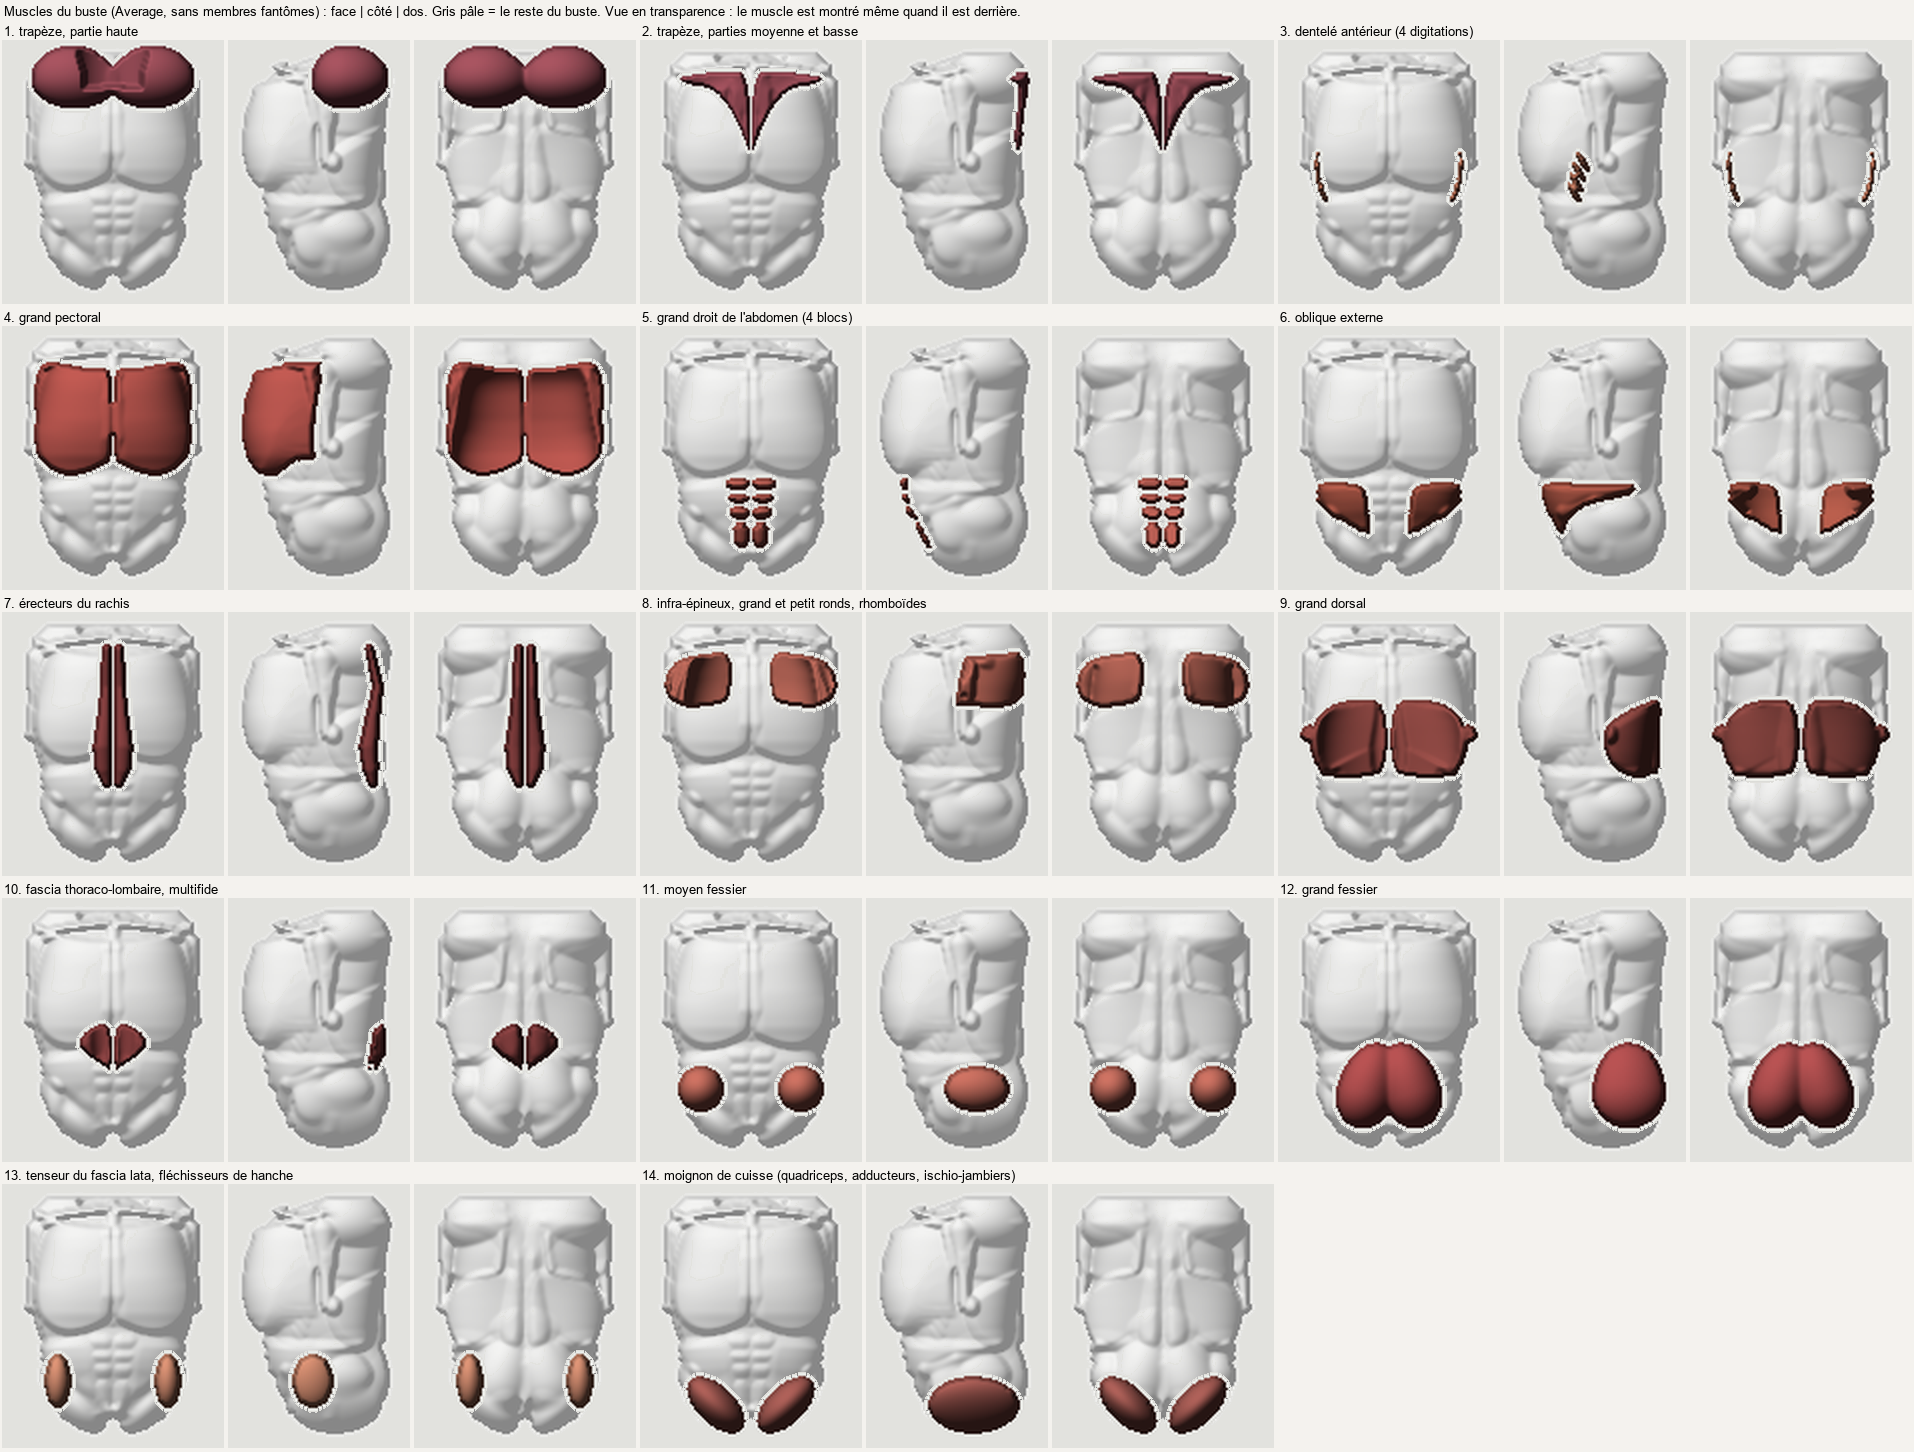
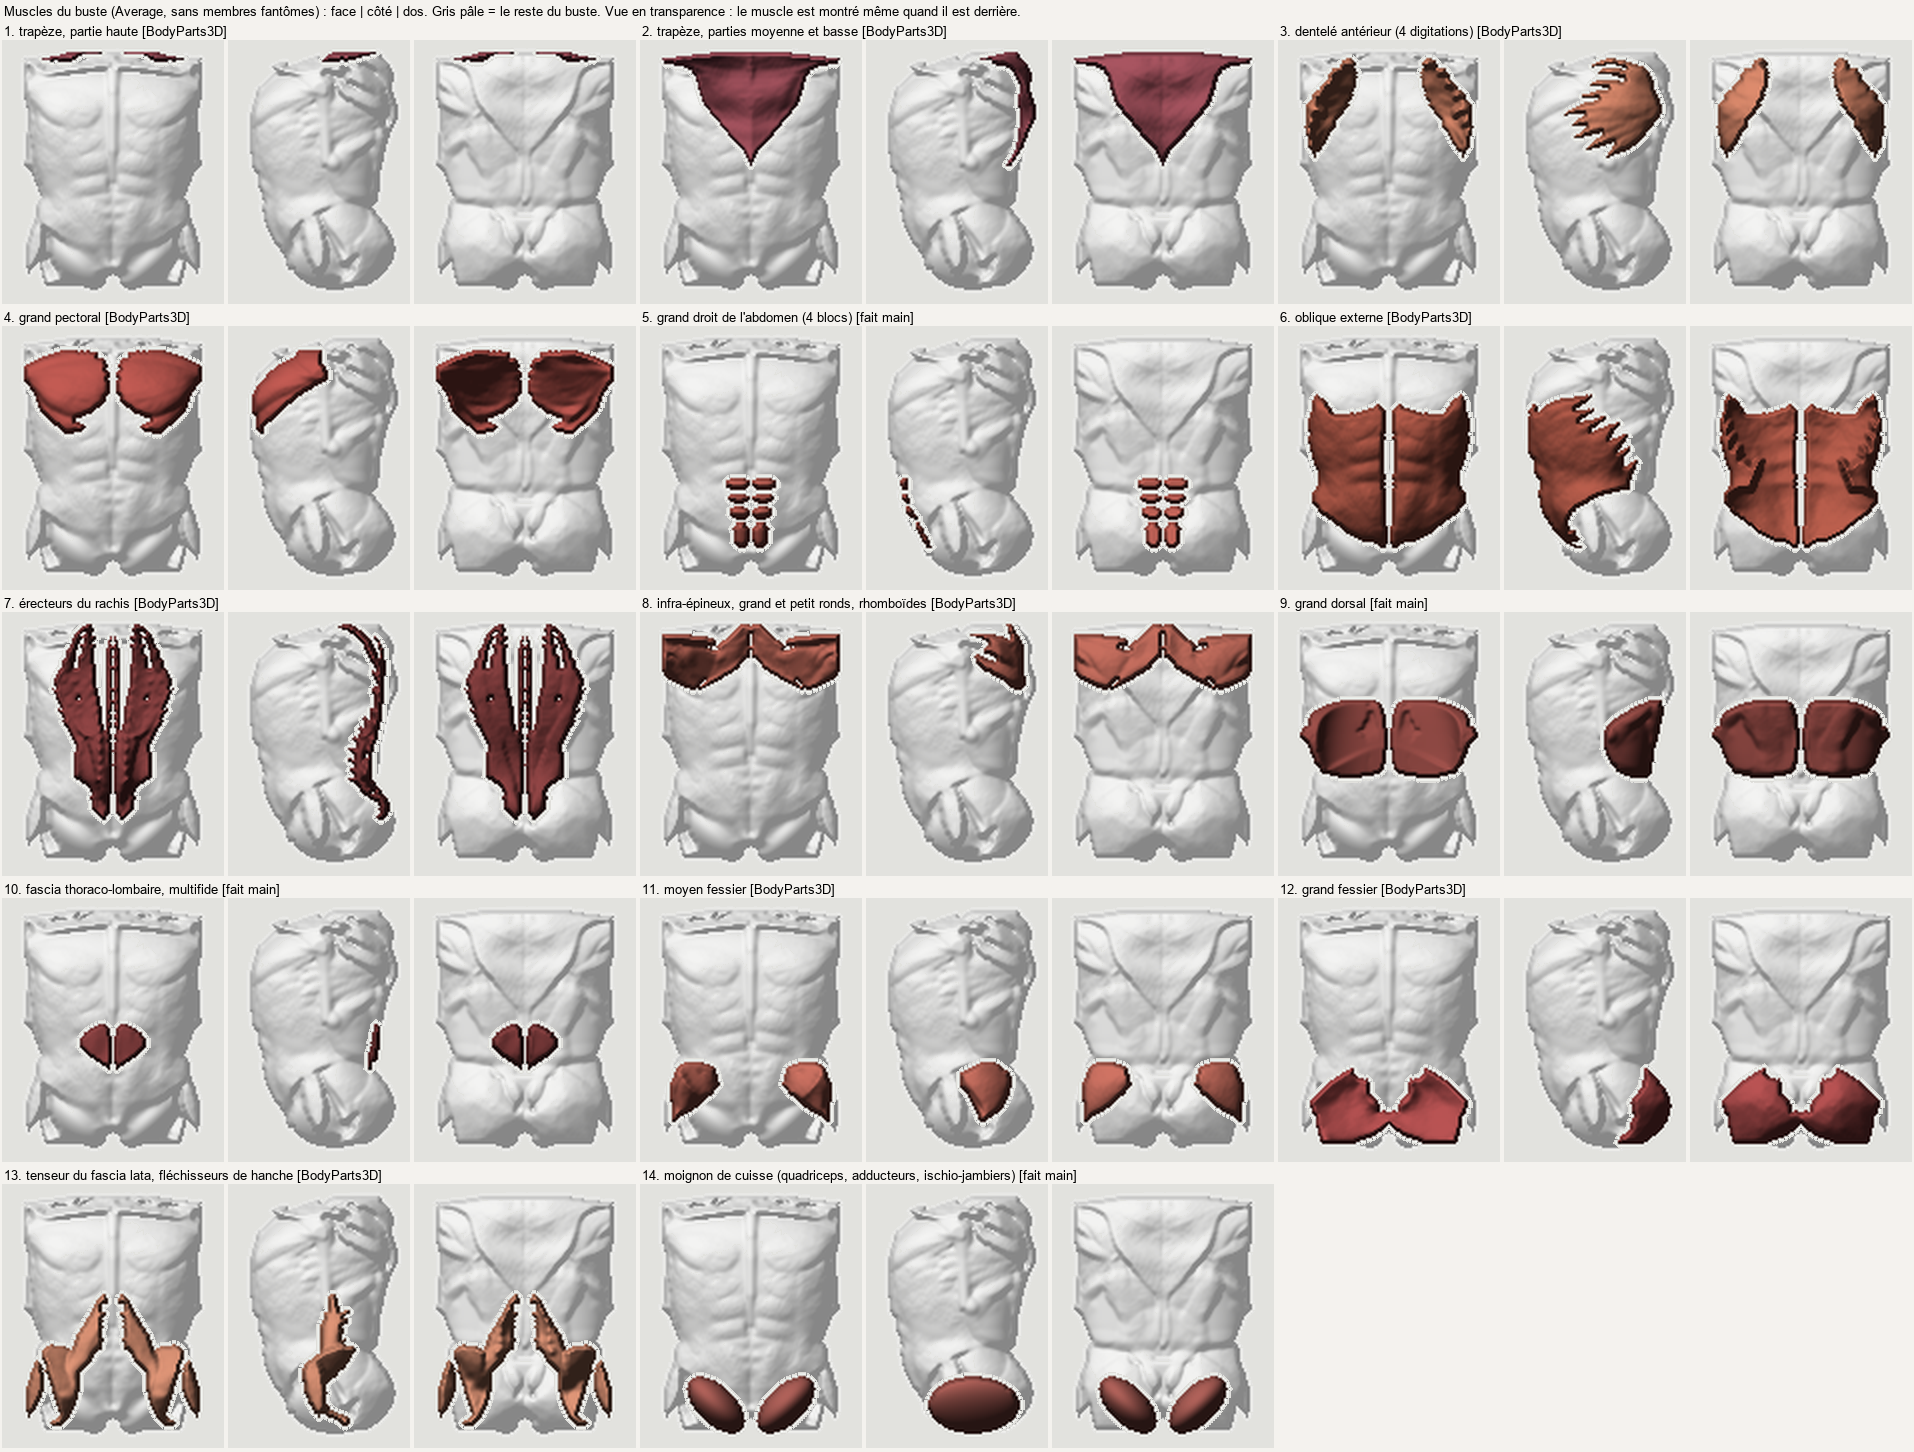
Body 3D: trunk muscles from BodyParts3D where the library has them (10 of 14), cut at the neck section, the shoulder and the crotch; prototype M v7
bp3d_torso.py lays the BodyParts3D meshes on the Male frame (bp3d_import.frame) and stack3d.build_male uses them (HAND_MUSCLES=1 restores the hand shapes). Still hand-made: rectus abdominis, latissimus dorsi, thoracolumbar fascia and multifidus (absent from BodyParts3D 4.0) and the thigh stump. The meshes stay out of git (out/bp3d, CC BY-SA). M v7: muscle 20.7 %, fat 22.8 %, bone 6.4 %, viscera 44.8 % of the torso mass.

diff --git a/Art/work/transfer-proto/fable-crack/stack3d.py b/Art/work/transfer-proto/fable-crack/stack3d.py
@@ -523,8 +523,33 @@ def build_male(G, T, prm=MALE, ty=None):
             cyl = (np.sqrt((X / 36.0) ** 2 + ((Z - 246.0) / 32.0) ** 2) - 1.0) * 32.0
             return np.maximum(cyl, R - 222.0).astype(np.float32)
         return fn, np.array([-36.0, 140.0, 214.0]), np.array([36.0, 222.0, 278.0])
-    S.add("trapezius (upper)", "muscle", carve(ell((38, 214, 232), (44, 30, 34), rad2=(44, 34, 44)), neck_hole()), k=6.0,
-          colour=COL["trap"], km=6.0)
+    # BodyParts3D first (2026-11-17, Virginie: 'repars de ceux de la lib'): every muscle the library has is its mesh, laid
+    # on the Male frame (bp3d_torso.py), cut at the neck section; the hand-made shape stays only where the library has
+    # none, or with HAND_MUSCLES=1.
+    use_lib = os.environ.get("HAND_MUSCLES", "0") != "1"
+
+    def lib(name, colour, k=1.5, km=1.0, holes=()):
+        if not use_lib:
+            return False
+        import bp3d_torso
+        p = bp3d_torso.prim(name)
+        if p is None:
+            return False
+        top = (lambda X, R, Z: np.broadcast_to(R - prm["neck_cut"], np.broadcast_shapes(X.shape, R.shape, Z.shape)).astype(np.float32),
+               np.array([-200.0, 0.0, 0.0]), np.array([200.0, prm["neck_cut"], 500.0]))
+        # the library muscles run on into the limbs (pectoral and teres to the humerus, hip flexors and glutes to the
+        # femur): cut at the shoulder (past the acromion, x 90) and at the crotch row; the ghost limbs carry the rest
+        shp = lambda X, R, Z: np.broadcast_shapes(X.shape, R.shape, Z.shape)
+        arm = (lambda X, R, Z: np.broadcast_to(90.0 - X, shp(X, R, Z)).astype(np.float32),
+               np.array([90.0, 0.0, 0.0]), np.array([400.0, 600.0, 500.0]))
+        leg = (lambda X, R, Z: np.broadcast_to(prm["lm"][4] - R, shp(X, R, Z)).astype(np.float32),
+               np.array([-200.0, prm["lm"][4], 0.0]), np.array([200.0, 900.0, 500.0]))
+        S.add(name, "muscle", carve(p, top, arm, leg, *holes), k=k, colour=colour, km=km)
+        return True
+
+    if not lib("trapezius (upper)", COL["trap"], holes=(neck_hole(),)):
+        S.add("trapezius (upper)", "muscle", carve(ell((38, 214, 232), (44, 30, 34), rad2=(44, 34, 44)), neck_hole()), k=6.0,
+              colour=COL["trap"], km=6.0)
 
     # ---- trunk, front
     def serr(i, zc_, rc_):
@@ -533,14 +558,15 @@ def build_male(G, T, prm=MALE, ty=None):
              ((-1, 0), (-0.6, 0.85), (0.3, 1), (0.9, 0.5), (1, 0), (0.9, -0.5), (0.3, -1), (-0.6, -0.85))]
         S.lens(f"serratus {i}", "muscle", "S", V, 1.4, 4.5, colour=COL["serr"], rnd=1, prof=1.5)
 
-    for i, (z_, r_) in enumerate(((270, 297), (274, 307), (277, 317), (279, 327))):
-        serr(i, z_, r_)
+    if not lib("serratus", COL["serr"]):
+        for i, (z_, r_) in enumerate(((270, 297), (274, 307), (277, 317), (279, 327))):
+            serr(i, z_, r_)
 
     # the two pectorals meet on the sternum (the polygon crosses the midline, so the pair is one sheet there); they thin
     # toward it, which leaves the sternal furrow as a shallow valley and not a bare strip of bone
     pec = [(-1, 217), (-1, 309), (11, 316), (26, 322.5), (42, 325.5), (56, 323), (68, 315), (76, 305), (80, 288), (80, 250),
            (78, 226), (72, 213), (62, 209.5), (46, 212.5), (24, 216.5), (8, 217)]
-    S.lens("pectoralis major", "muscle", "F", pec, 11.5, 5.5, colour=COL["pec"],
+    lib("pectoralis major", COL["pec"]) or S.lens("pectoralis major", "muscle", "F", pec, 11.5, 5.5, colour=COL["pec"],
            mod=lambda u, v: (0.6 + 0.4 * sstep((v - (217.0 - 0.1 * np.abs(u))) / 70.0)) * (0.68 + 0.32 * sstep(np.abs(u) / 14.0)))
 
     # rectus abdominis: four blocks a side, tendinous intersections between them, linea alba at the midline.
@@ -560,16 +586,16 @@ def build_male(G, T, prm=MALE, ty=None):
     # its medial edge runs under the rectus sheath
     obl = [(20, 327), (60, 327), (100, 330), (140, 332), (172, 329), (172, 344), (135, 350), (110, 354), (88, 362), (62, 374),
            (42, 388), (20, 392)]
-    S.lens("external oblique", "muscle", "W", obl, 8.0, 12.0, colour=COL["obl"], prof=1.3, on="core",
+    lib("external oblique", COL["obl"]) or S.lens("external oblique", "muscle", "W", obl, 8.0, 12.0, colour=COL["obl"], prof=1.3, on="core",
            mod=lambda u, v: (0.4 + 0.6 * sstep((u - 30.0) / 55.0)) * (0.45 + 0.55 * sstep((v - 322.0) / 18.0)))
 
     # ---- trunk, back
     er = [(6.5, 212, 5.0, 4.5), (7, 250, 6.0, 4.5), (8.5, 285, 8.0, 6.5), (10.5, 310, 10.0, 8.5), (9.5, 332, 8.5, 6.7), (6.5, 346, 5.0, 5.5)]
-    S.add("erector spinae", "muscle", tube([(x, r, float(fsp(r)) + dz) for x, r, rad, dz in er], [p[2] for p in er]), k=1.5,
+    lib("erector spinae", COL["erec"]) or S.add("erector spinae", "muscle", tube([(x, r, float(fsp(r)) + dz) for x, r, rad, dz in er], [p[2] for p in er]), k=1.5,
           colour=COL["erec"], km=1.0)
 
     scap = [(19, 214), (19, 254), (24, 266), (44, 270), (66, 272), (84, 262), (88, 244), (76, 222), (44, 216)]   # on the scapula (ribs 2 to 7)
-    S.lens("infraspinatus, teres, rhomboid", "muscle", "B", scap, 4.8, 7.0, colour=COL["scap"], on="core",
+    lib("infraspinatus, teres, rhomboid", COL["scap"]) or S.lens("infraspinatus, teres, rhomboid", "muscle", "B", scap, 4.8, 7.0, colour=COL["scap"], on="core",
            mod=lambda u, v: 1.0 - 0.3 * sstep((v - 236.0) / 26.0))
 
     # latissimus dorsi: one fan. Origin on the spine from T7 down to the sacrum and along the iliac crest, free border
@@ -580,7 +606,7 @@ def build_male(G, T, prm=MALE, ty=None):
            mod=lambda u, v: 0.55 + 0.45 * sstep((228.0 - u) / 70.0))
 
     trap = [(-1, 204), (30, 204), (62, 208), (78, 212), (64, 222), (40, 224), (22, 244), (9, 272), (-1, 302)]
-    S.lens("trapezius (middle, lower)", "muscle", "B", trap, 2.6, 10.0, colour=COL["trap"], prof=1.2)
+    lib("trapezius (middle, lower)", COL["trap"]) or S.lens("trapezius (middle, lower)", "muscle", "B", trap, 2.6, 10.0, colour=COL["trap"], prof=1.2)
     # thoracolumbar fascia with the multifidus under it: from the lumbar erectors onto the sacrum, between the two PSIS
     S.lens("thoracolumbar fascia, multifidus", "muscle", "B", [(-1, 296), (24, 302), (38, 318), (30, 332), (15, 341), (-1, 354)], 2.6, 11.0,
            colour=COL["erec"], prof=1.2)
@@ -591,9 +617,9 @@ def build_male(G, T, prm=MALE, ty=None):
 
     # ---- pelvis and thigh stump
     # gluteus medius: from the iliac crest (row 347) down to the greater trochanter (391)
-    S.add("gluteus medius", "muscle", ell((50, 366, 238), (23, 23, 33), rot=(12, 0, 0)), k=3.0, colour=COL["glmed"])
-    S.add("gluteus maximus", "muscle", ell((23, 370, 224.5), (30, 36, 36.5), rad2=(30, 52, 37.5), rot=(18, 0, 0)), k=2.5, colour=COL["glmax"], km=6.0)
-    S.add("tensor fasciae latae, hip flexors", "muscle", ell((55, 372, 264), (13.5, 27, 21)), k=6.0, colour=COL["tfl"])
+    lib("gluteus medius", COL["glmed"]) or S.add("gluteus medius", "muscle", ell((50, 366, 238), (23, 23, 33), rot=(12, 0, 0)), k=3.0, colour=COL["glmed"])
+    lib("gluteus maximus", COL["glmax"], km=4.0) or S.add("gluteus maximus", "muscle", ell((23, 370, 224.5), (30, 36, 36.5), rad2=(30, 52, 37.5), rot=(18, 0, 0)), k=2.5, colour=COL["glmax"], km=6.0)
+    lib("tensor fasciae latae, hip flexors", COL["tfl"]) or S.add("tensor fasciae latae, hip flexors", "muscle", ell((55, 372, 264), (13.5, 27, 21)), k=6.0, colour=COL["tfl"])
     S.add("thigh stump (quadriceps, adductors, hamstrings)", "muscle", ell((35, 396, 242.5), (19, 36, 44), rad2=(19, 36, 47), rot=(-46, 0, 0)), k=6.0,
           colour=COL["thigh"], km=2.0)
     # the sprite cuts the neck flat: the neck root and the trapezius end on that section, they do not close in a tip

diff --git a/Art/work/transfer-proto/fable-crack/bp3d_torso.py b/Art/work/transfer-proto/fable-crack/bp3d_torso.py
@@ -1,0 +1,116 @@
+"""The trunk muscles of the stack taken from BodyParts3D (2026-11-17, Virginie: 'repars de ceux de la lib pour tous ceux
+validés ici').
+
+Each muscle of the stack that BodyParts3D 4.0 has is replaced by the BodyParts3D mesh (right side), laid on the Male frame
+by the same fit as the reference bones (bp3d_import.frame and thorax_width), then made solid on the grid. The ones the
+library does not have stay hand-made in stack3d.build_male: rectus abdominis, latissimus dorsi, thoracolumbar fascia and
+multifidus (BodyParts3D 4.0 has no rectus abdominis, latissimus dorsi, multifidus, internal oblique, transversus abdominis
+or quadratus lumborum).
+
+    uv run --with numpy --with scipy python bp3d_torso.py      writes out/bp3d/torso_muscles.npz (meshes, Male frame)
+
+stack3d.build_male reads that file through prim(); without it the hand-made shapes stay.
+"""
+import collections
+import pathlib
+
+import numpy as np
+from scipy import ndimage as ndi
+
+HERE = pathlib.Path(__file__).parent / "out" / "bp3d"
+PATH = HERE / "torso_muscles.npz"
+
+# stack part name -> BodyParts3D objects (right side)
+GROUPS = {
+    "trapezius (upper)": ["descending part of right trapezius"],
+    "trapezius (middle, lower)": ["transverse part of right trapezius", "ascending part of right trapezius"],
+    "serratus": ["right serratus anterior"],
+    "pectoralis major": ["clavicular part of right pectoralis major", "sternocostal part of right pectoralis major",
+                         "abdominal part of right pectoralis major"],
+    "external oblique": ["right external oblique"],
+    "erector spinae": ["right iliocostalis lumborum", "right iliocostalis thoracis", "right longissimus thoracis",
+                       "right spinalis thoracis"],
+    "infraspinatus, teres, rhomboid": ["right infraspinatus muscle", "right supraspinatus", "right teres major",
+                                       "right teres minor", "right rhomboid major", "right rhomboid minor"],
+    "gluteus medius": ["right gluteus medius", "right gluteus minimus"],
+    "gluteus maximus": ["right gluteus maximus"],
+    "tensor fasciae latae, hip flexors": ["right tensor fasciae latae", "right iliacus", "right psoas major"],
+}
+
+
+def build():
+    import bp3d_import as bi
+    O, T = bi.frame()
+    by = collections.defaultdict(list)
+    for ln in (HERE / "isa_element_parts.txt").read_text(encoding="utf-8").splitlines()[1:]:
+        c = ln.split("\t")
+        if len(c) >= 3:
+            by[c[1]].append(c[2])
+    want = {n: by[n][0] for g in GROUPS.values() for n in g if by.get(n)}
+    missing = [n for g in GROUPS.values() for n in g if n not in want]
+    if missing:
+        print("not in BodyParts3D:", missing)
+    M = bi.load_named({fj: n for n, fj in want.items()})
+    mesh = {n: (v, f) for fj, (n, v, f) in M.items()}
+    out = {}
+    for key, names in GROUPS.items():
+        V, F, off = [], [], 0
+        for n in names:
+            if n not in mesh:
+                continue
+            v, f = mesh[n]
+            v = bi.thorax_width(T(O(v)))
+            V.append(v); F.append(f + off); off += len(v)
+        if V:
+            k = key.replace(" ", "_").replace(",", "").replace("(", "").replace(")", "")
+            out[f"v_{k}"] = np.concatenate(V); out[f"f_{k}"] = np.concatenate(F)
+            v = out[f"v_{k}"]
+            print(f"  {key:36s} {len(names)} parts  x {v[:, 0].min():.0f}..{v[:, 0].max():.0f}  rows {v[:, 1].min():.0f}..{v[:, 1].max():.0f}  z {v[:, 2].min():.0f}..{v[:, 2].max():.0f}")
+    np.savez_compressed(PATH, **out)
+    print(PATH)
+
+
+_CACHE = {}
+
+
+def prim(key, h=1.0):
+    """(fn, lo, hi) of the solid of a group, or None when the file or the group is absent. The solid: the triangles
+    sampled every h/3, those voxels closed (fill holes), then a signed distance on a 1 px grid around it."""
+    if not PATH.exists():
+        return None
+    k = key.replace(" ", "_").replace(",", "").replace("(", "").replace(")", "")
+    if (k, h) not in _CACHE:
+        D = np.load(PATH)
+        if f"v_{k}" not in D:
+            return None
+        v, f = D[f"v_{k}"].astype(np.float64), D[f"f_{k}"]
+        g = 1.0
+        lo = v.min(0) - 6.0; hi = v.max(0) + 6.0
+        shp = tuple(int(np.ceil((hi[i] - lo[i]) / g)) + 1 for i in range(3))
+        occ = np.zeros(shp, bool)
+        a, b, c = v[f[:, 0]], v[f[:, 1]], v[f[:, 2]]
+        n = int(np.ceil(max(np.linalg.norm(b - a, axis=1).max(), np.linalg.norm(c - a, axis=1).max()) / (g / 3.0))) + 1
+        for i in range(n + 1):
+            for j in range(n + 1 - i):
+                p = a + (b - a) * (i / n) + (c - a) * (j / n)
+                q = np.round((p - lo) / g).astype(int)
+                occ[q[:, 0], q[:, 1], q[:, 2]] = True
+        occ = ndi.binary_closing(occ, iterations=1)
+        occ = ndi.binary_fill_holes(occ)
+        sd = (ndi.distance_transform_edt(~occ) - ndi.distance_transform_edt(occ)) * g
+        _CACHE[(k, h)] = (sd.astype(np.float32), lo, g)
+    sd, lo, g = _CACHE[(k, h)]
+
+    def fn(X, R, Z):
+        co = [(np.broadcast_to(X, np.broadcast_shapes(X.shape, R.shape, Z.shape)) - lo[0]) / g,
+              (np.broadcast_to(R, np.broadcast_shapes(X.shape, R.shape, Z.shape)) - lo[1]) / g,
+              (np.broadcast_to(Z, np.broadcast_shapes(X.shape, R.shape, Z.shape)) - lo[2]) / g]
+        out = ndi.map_coordinates(sd, co, order=1, mode="constant", cval=50.0)
+        return out.astype(np.float32)
+
+    hi = lo + (np.array(sd.shape) - 1) * g
+    return fn, lo + 6.0, hi - 6.0
+
+
+if __name__ == "__main__":
+    build()

diff --git a/Art/work/transfer-proto/fable-crack/bp3d_import.py b/Art/work/transfer-proto/fable-crack/bp3d_import.py
@@ -187,6 +187,23 @@ def head_fit(v):
     return out
 
 
+def frame():
+    """(O, T): BodyParts3D axes to (right, up, front), then mm to the Male frame (one scale per axis), from the bones."""
+    B = load(); O = orient(B)
+    P = {fj: (n, O(v), f) for fj, (n, v, f) in B.items()}
+    get = lambda w: np.concatenate([v for n, v, _ in P.values() if n == w])
+    ribs = np.concatenate([v for n, v, _ in P.values() if n.endswith(" rib")])
+    x0 = float(get("body of sternum")[:, 0].mean())
+    notch = float(get("manubrium")[np.abs(get("manubrium")[:, 0] - x0) < 6.0][:, 1].max())
+    hip = get("right hip bone"); pubis = float(hip[np.abs(hip[:, 0] - x0) < 12.0][:, 1].min())
+    half = float(np.abs(ribs[:, 0] - x0).max())
+    mid = ribs[np.abs(ribs[:, 1] - (notch + pubis) / 2 - (notch - pubis) * 0.2) < (notch - pubis) * 0.15]
+    f1, f0 = float(get("body of sternum")[:, 2].max()), float(mid[:, 2].min())
+    sx = CAGE_HALF / half; sy = (ROW_PUBIS - ROW_NOTCH) / (notch - pubis); sz = (Z_FRONT - Z_BACK) / (f1 - f0)
+    T = lambda v: np.stack([(v[:, 0] - x0) * sx, ROW_NOTCH + (notch - v[:, 1]) * sy, Z_BACK + (v[:, 2] - f0) * sz], 1).astype(np.float32)
+    return O, T
+
+
 def build():
     B = load(); O = orient(B)
     P = {fj: (n, O(v), f) for fj, (n, v, f) in B.items()}

diff --git a/Art/work/transfer-proto/fable-crack/musclelist.py b/Art/work/transfer-proto/fable-crack/musclelist.py
@@ -59,7 +59,9 @@ def main():
             hit = np.abs(m.astype(int) - BG).sum(-1) >= 4
             out[hit] = m[hit]
             ims.append(Image.fromarray(out))
-        tiles.append((f"{i}. {fr}", ims))
+        import bp3d_torso
+        src = "BodyParts3D" if key in bp3d_torso.GROUPS and bp3d_torso.PATH.exists() else "fait main"
+        tiles.append((f"{i}. {fr} [{src}]", ims))
         print(i, key, flush=True)
     tw = sum(im.width for im in tiles[0][1]) + 12; th = max(im.height for im in tiles[0][1]) + 22
     cols = 3
